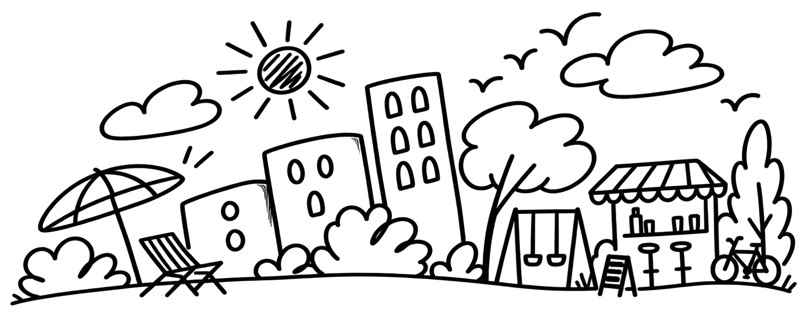
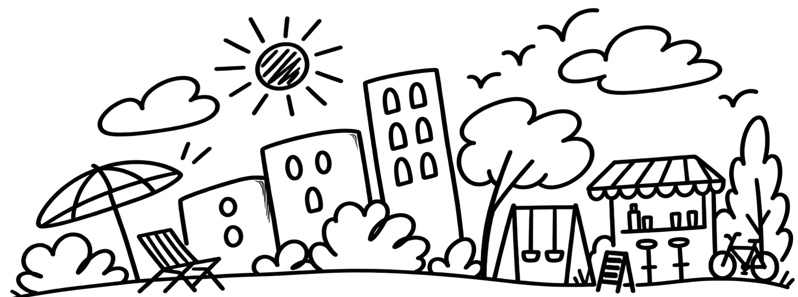
Plant the borgo baseline into the green hill crest.
Anchor landing to the path tip body and nest the curved ground line so it no longer floats in the cream gap above the snake.

diff --git a/js/main.js b/js/main.js
@@ -1077,12 +1077,42 @@ function initPathway() {
   const skyCurve = skyline?.querySelector("[data-skyline-curve]");
   const START_SCALE = 0.78;
   const END_SCALE = 1;
+  // Mid-arch ground line in borgo-curve.png (~20% up from image bottom).
+  const GROUND_LIFT = 0.2;
+  // Dig deep enough that the high right side of the arch still meets the green.
+  const NEST_PX = 90;
   let skySize = { w: 0, h: 0 };
   let skyLanded = false;
 
   const measureSkyline = () => {
     if (!skyline) return;
     skySize = { w: skyline.offsetWidth || 1, h: skyline.offsetHeight || 1 };
+  };
+
+  // Landing mark: on the tip BODY (along the path), not the far round-cap tip.
+  const tipCrest = () => {
+    const mobile = isMobile();
+    const pathEl = mobile ? mobileMainPath : mainPath;
+    const svg = pathEl?.ownerSVGElement;
+    if (!pathEl || !svg) {
+      const fallback = seat.getBoundingClientRect();
+      return { x: fallback.left, y: fallback.top };
+    }
+    const ctm = pathEl.getScreenCTM();
+    if (!ctm) {
+      const fallback = seat.getBoundingClientRect();
+      return { x: fallback.left, y: fallback.top };
+    }
+    const stroke = Number(pathEl.getAttribute("stroke-width")) || (mobile ? 250 : 500);
+    const len = pathEl.getTotalLength() || 1;
+    // Far enough along that the village width sits on the thick body, not past the tip.
+    const pt = pathEl.getPointAtLength(Math.min(len * 0.045, stroke * 0.7));
+    const vb = svg.viewBox.baseVal;
+    const svgRect = svg.getBoundingClientRect();
+    const scaleY = svgRect.height / Math.max(1, vb.height);
+    const x = ctm.a * pt.x + ctm.c * pt.y + ctm.e;
+    const y = ctm.b * pt.x + ctm.d * pt.y + ctm.f - stroke * 0.5 * scaleY;
+    return { x, y };
   };
 
   const paintSkyline = () => {
@@ -1094,20 +1124,18 @@ function initPathway() {
     const videoRect = video
       ? video.getBoundingClientRect()
       : { left: 0, width: window.innerWidth, bottom: vh * 0.72 };
-    const seatRect = seat.getBoundingClientRect();
-    const seatTop = seatRect.top;
+    const crest = tipCrest();
     const { w: naturalW, h: naturalH } = skySize;
 
     // Sit slightly into the white margin under the video.
     const startBottom = videoRect.bottom + 10;
-    // Nest the baseline a few px into the green crest so it reads as attached.
-    const endBottom = seatTop + 8;
+    // Align PNG ground to crest, then nest into the green.
+    const endBottom = crest.y + naturalH * GROUND_LIFT + NEST_PX;
     const startCenter = videoRect.left + videoRect.width * 0.5;
-    const endCenter = seatRect.left;
-    const seatDoc = scrollY + seatTop;
-    // Land once the green ridge has risen into the upper half of the viewport.
+    const endCenter = crest.x;
+    const crestDoc = scrollY + crest.y;
     const landY = vh * 0.46;
-    const endScroll = Math.max(1, seatDoc - landY);
+    const endScroll = Math.max(1, crestDoc - landY);
 
     const place = (center, bottom, scale, morph, landed) => {
       const x = center - naturalW * 0.5;
@@ -1132,7 +1160,7 @@ function initPathway() {
     const eased = easeOut(progress);
     const scale = START_SCALE + (END_SCALE - START_SCALE) * eased;
     const morph = clamp01((eased - 0.08) / 0.6);
-    const landed = progress >= 0.995 || seatTop <= landY + 1;
+    const landed = progress >= 0.995 || crest.y <= landY + 1;
     const bottom = landed ? endBottom : startBottom + (endBottom - startBottom) * eased;
     const center = landed ? endCenter : startCenter + (endCenter - startCenter) * eased;
 

diff --git a/index.html b/index.html
@@ -15,7 +15,7 @@
   <link rel="preconnect" href="https://fonts.googleapis.com">
   <link rel="preconnect" href="https://fonts.gstatic.com" crossorigin>
   <link href="https://fonts.googleapis.com/css2?family=Inter:wght@400;500;600&family=Outfit:wght@300;400;500;600;700;800&display=swap" rel="stylesheet">
-  <link rel="stylesheet" href="css/styles.css?v=195">
+  <link rel="stylesheet" href="css/styles.css?v=197">
 </head>
 <body id="top">
   <a class="skip" href="#contenuto">Vai al contenuto</a>
@@ -1344,17 +1344,17 @@
     <img
       class="skyline__art skyline__art--flat"
       data-skyline-flat
-      src="assets/borgo-dritto.png?v=3"
-      width="800"
-      height="318"
+      src="assets/borgo-dritto.png?v=5"
+      width="798"
+      height="297"
       alt=""
       decoding="async">
     <img
       class="skyline__art skyline__art--curve"
       data-skyline-curve
-      src="assets/borgo-curve.png?v=3"
-      width="892"
-      height="455"
+      src="assets/borgo-curve.png?v=5"
+      width="889"
+      height="423"
       alt=""
       decoding="async">
   </figure>
@@ -1384,6 +1384,6 @@
     </div>
   </div>
 
-  <script src="js/main.js?v=60"></script>
+  <script src="js/main.js?v=70"></script>
 </body>
 </html>

diff --git a/css/styles.css b/css/styles.css
@@ -533,7 +533,7 @@ body.is-rail-open .rail-show {
   width: min(64vw, 620px);
   margin: 0;
   padding: 0;
-  aspect-ratio: 892 / 455;
+  aspect-ratio: 889 / 423;
   transform: translate3d(0, 0, 0) scale(0.78);
   transform-origin: 50% 100%;
   pointer-events: none;
